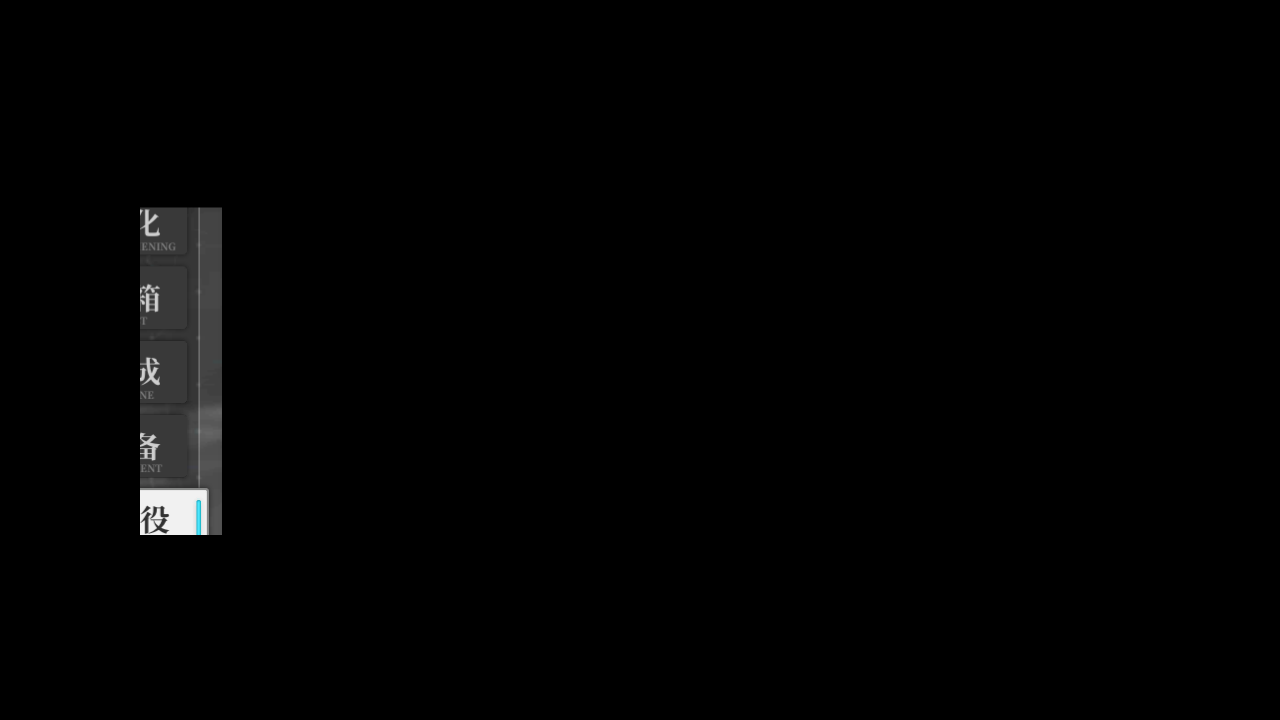
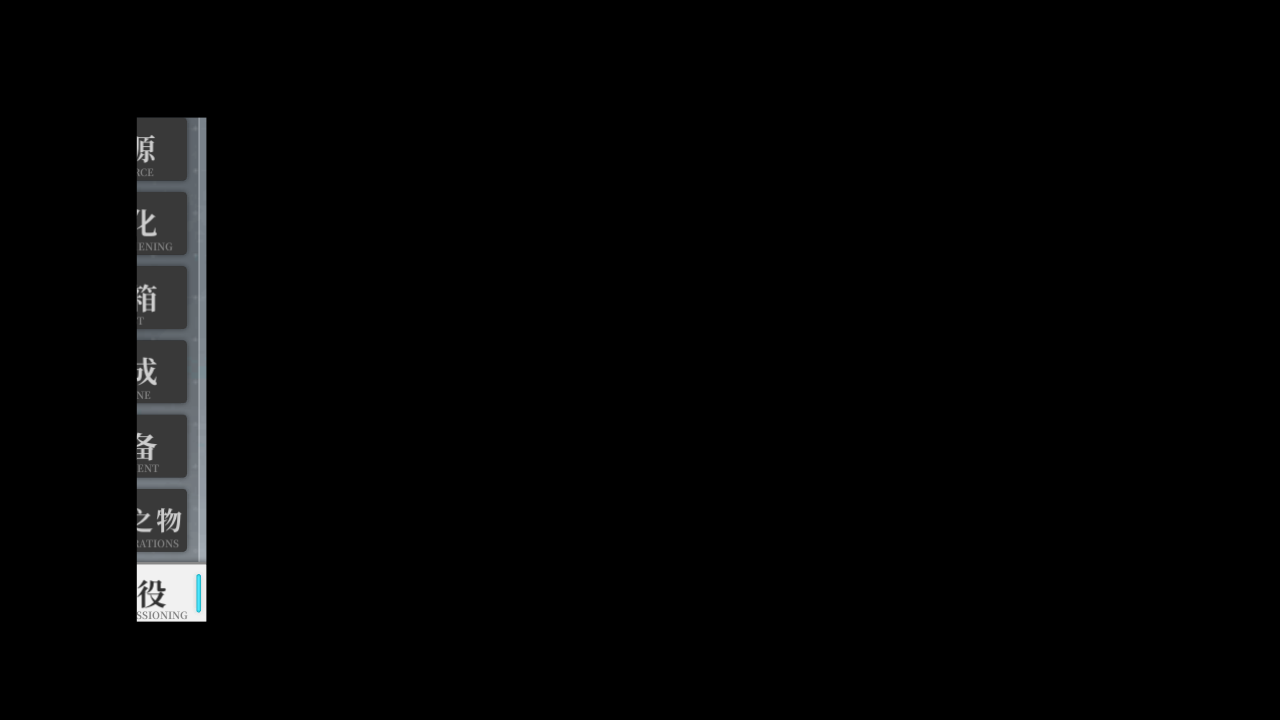
[feat] mainline hosting

Changed region(s): [[0.0938, 0.1528, 0.1875, 0.8861]]

diff --git a/tasks/mainline/mainline.py b/tasks/mainline/mainline.py
@@ -1,7 +1,10 @@
 from tasks.base.ui import UI
 from tasks.base.page import page_main_line
 from .assets import *
-from tasks.base.assets.assets_base_page import NEXT_STAGE_BUTTON,PREVIOUS_STAGE_BUTTON,STAGE_HOSTING,STOP_HOSTING,BATTLE_PAGE
+from tasks.base.assets.assets_base_page import (NEXT_STAGE_BUTTON,PREVIOUS_STAGE_BUTTON,STAGE_HOSTING,STOP_HOSTING,BATTLE_PAGE,STAGE_HOSTING_FINISH_DECOMMISIONING,STAGE_HOSTING_CLOSE,
+                                                DECOMMISSIONING_PAGE,DECOMMISSIONING_BATCH_CONFIRM,DECOMMISSIONING_SELECTED_DATA,DECOMMISSIONING_CONFIRM,GET_ITEMS,
+                                                STAGE_HOSTING_GET_SSR)
+from tasks.base.assets.assets_base_popup import POPUP_CANCEL,POPUP_CONFIRM
 from module.logger.logger import logger
 from module.ocr.ocr import Ocr
 from module.base.timer import Timer
@@ -108,6 +111,13 @@ class Mainline(UI):
                     cnt = 0
                     max_cnt = random.randrange(10, 20)
                 self.device.stuck_timer.reset()
+            if self.appear(MAINLINE_STOP_HOSTING_FUEL):
+                if self.handle_popup_cancel():
+                    finish_reason = 'insufficient_fuel'
+                    break
+            if self.appear_then_click(STAGE_HOSTING_FINISH_DECOMMISIONING):
+                finish_reason = 'depot_full'
+                break
             priority_exist = self.check_if_priorty_exist()
             if priority_exist:
                 finish_reason = 'task_interrupt'
@@ -115,12 +125,50 @@ class Mainline(UI):
         return finish_reason
     def post_hosting(self, finish_reason):
         self.device.screenshot_interval_set()
-        if finish_reason == 'task_interrupt':
+        decommission_times = 0
+        if finish_reason == 'depot_full':
+            self.ui_click(STAGE_HOSTING_CLOSE, DECOMMISSIONING_PAGE)
+            if self.config.TimeOdysseySetting_AutoDecommissioning:
+                current = -1
+                while current != 0:
+                    self.ui_goto(page_decommissioning_batch)
+                    #make sure choose right rarity
+                    self.ui_click(DECOMMISSIONING_BATCH_CONFIRM, DECOMMISSIONING_PAGE)
+                    counter = DigitCounter(DECOMMISSIONING_SELECTED_DATA)
+                    image = self.device.screenshot()
+                    (current,remain,total) = counter.ocr_single_line(image)
+                    if current == 0:
+                        break
+                    decommission_times+=1
+                    self.ui_click(DECOMMISSIONING_CONFIRM, GET_ITEMS)
+                    timer=Timer(3).start()
+                    for _ in self.loop():
+                        if self.appear_then_click(GET_ITEMS):
+                            continue
+                        if (not self.appear(GET_ITEMS)) and timer.reached():
+                            break
+                self.ui_goto_main()
+            #FIXME: not TimeOdysseySetting_EnableContinuous
+            if decommission_times != 0 and self.config.TimeOdysseySetting_EnableContinuous:
+                #等5分钟让调度器自己启动, TODO: 如何设定下次启动时间
+                self.config.task_delay(minute=5)
+            else:
+                #如果一次批量退役也没有表示仓库里没有格子放白色和绿色的舰灵了只能停下来了
+                self.config.cross_set('Mainline.Scheduler.Enable',False)
+        elif finish_reason == 'insufficient_fuel':
+            self.ui_click(MAINLINE_FINISH_HOSTING_FUEL_POPUP, STAGE_HOSTING_GET_SSR)
+            self.ui_click(STAGE_HOSTING_CLOSE, MAINLINE_STAGE_FINISH)
+            self.ui_click(MAINLINE_STAGE_FINISH, GET_ITEMS)
+            self.ui_click(GET_ITEMS, MAINLINE_STAGE_FINISH_EXIT)
+            for _ in self.loop():
+                if self.appear_then_click(MAINLINE_STAGE_FINISH_EXIT):
+                    break
+            self.config.cross_set('Mainline.Scheduler.Enable',False)
+        elif finish_reason == 'task_interrupt':
             self.ui_click(STAGE_HOSTING,STOP_HOSTING)
             self.ui_click(STOP_HOSTING, BATTLE_PAGE)
             self.ui_goto_main(extra_default=False)
-            self.config.cross_set('Mainline.Scheduler.Enable',False)
-
+            self.config.task_delay(minute=5)
 
     def run(self):
         (validate,chapter,stage) = self.validate_stage_setting()
@@ -133,8 +181,6 @@ class Mainline(UI):
             self.post_hosting(finish_reason)
         else:
             logger.warning('the stage setting is not right please make sure it is x-x')
-        # self.device.sleep(60)
-        # self.config.task_delay(minute=1)
 if __name__ == '__main__':
     task = Mainline('fxc', task='QuizCenter')
     import os

diff --git a/tasks/mainline/assets/assets_mainline.py b/tasks/mainline/assets/assets_mainline.py
@@ -64,3 +64,34 @@ MAINLINE_START_HOSTING=ButtonWrapper(
         file='./assets/share/attack/mainline/MAINLINE_START_HOSTING.png'
     )
 )
+MAINLINE_STOP_HOSTING_FUEL=ButtonWrapper(
+    name='MAINLINE_STOP_HOSTING_FUEL',
+    share=Button.default_init(
+        area=(444,323,523,351),color=(167,167,167),
+        file='./assets/share/attack/mainline/MAINLINE_FINISH_HOSTING_FUEL.png'
+    )
+)
+MAINLINE_FINISH_HOSTING_FUEL_POPUP=ButtonWrapper(
+    name='MAINLINE_FINISH_HOSTING_FUEL_POPUP',
+    share=Button.default_init(
+        area=(450,321,829,352),color=(166,166,166),
+        file='./assets/share/attack/mainline/MAINLINE_FINISH_HOSTING_FUEL_POPUP.png',
+        button=(740,437,925,483)
+    )
+)
+MAINLINE_STAGE_FINISH=ButtonWrapper(
+    name='MAINLINE_STAGE_FINISH',
+    share=Button.default_init(
+        area=(616,513,694,534),color=(96,96,98),
+        file='./assets/share/attack/mainline/MAINLINE_STAGE_FINISH.png',
+        button=(578,262,1063,490)
+    )
+)
+MAINLINE_STAGE_FINISH_EXIT=ButtonWrapper(
+    name='MAINLINE_STAGE_FINISH_EXIT',
+    share=Button.default_init(
+        area=(856,650,903,676),color=(117,125,134),
+        file='./assets/share/attack/mainline/MAINLINE_STAGE_FINISH_EXIT.png',
+        button=(770,645,918,684)
+    )
+)

diff --git a/tasks/base/assets/assets_base_page.py b/tasks/base/assets/assets_base_page.py
@@ -1722,13 +1722,23 @@ STAGE_HOSTING_CLOSE=ButtonWrapper(
         file='./assets/share/base/main_page/STAGE_HOSTING_CLOSE.png'
     )
 )
+STAGE_HOSTING_GET_SSR=ButtonWrapper(
+    name='STAGE_HOSTING_GET_SSR',
+    share=Button.default_init(
+        area=(533,286,613,312),color=(213,203,188),
+        file='./assets/share/base/main_page/STAGE_HOSTING_GET_SSR.png'
+    )
+)
 DECOMMISSIONING_PAGE=ButtonWrapper(
     name='DECOMMISSIONING_PAGE',
-    share=Button.default_init(
+    share=[Button.default_init(
         #area=(36,495,204,541),color=(209,213,213),
         area=(140,207,222,535),color=(85,85,86),
+        file='./assets/share/depot/DECOMMISSIONING_PAGE_LEGACY.png'
+    ),Button.default_init(
+        area=(136,117,206,621),color=(98,101,103),
         file='./assets/share/depot/DECOMMISSIONING_PAGE.png'
-    )
+    )]
 )
 STAGE_HOSTING_FINISH_FUEL=ButtonWrapper(
     name='STAGE_HOSTING_FINISH_FUEL',
